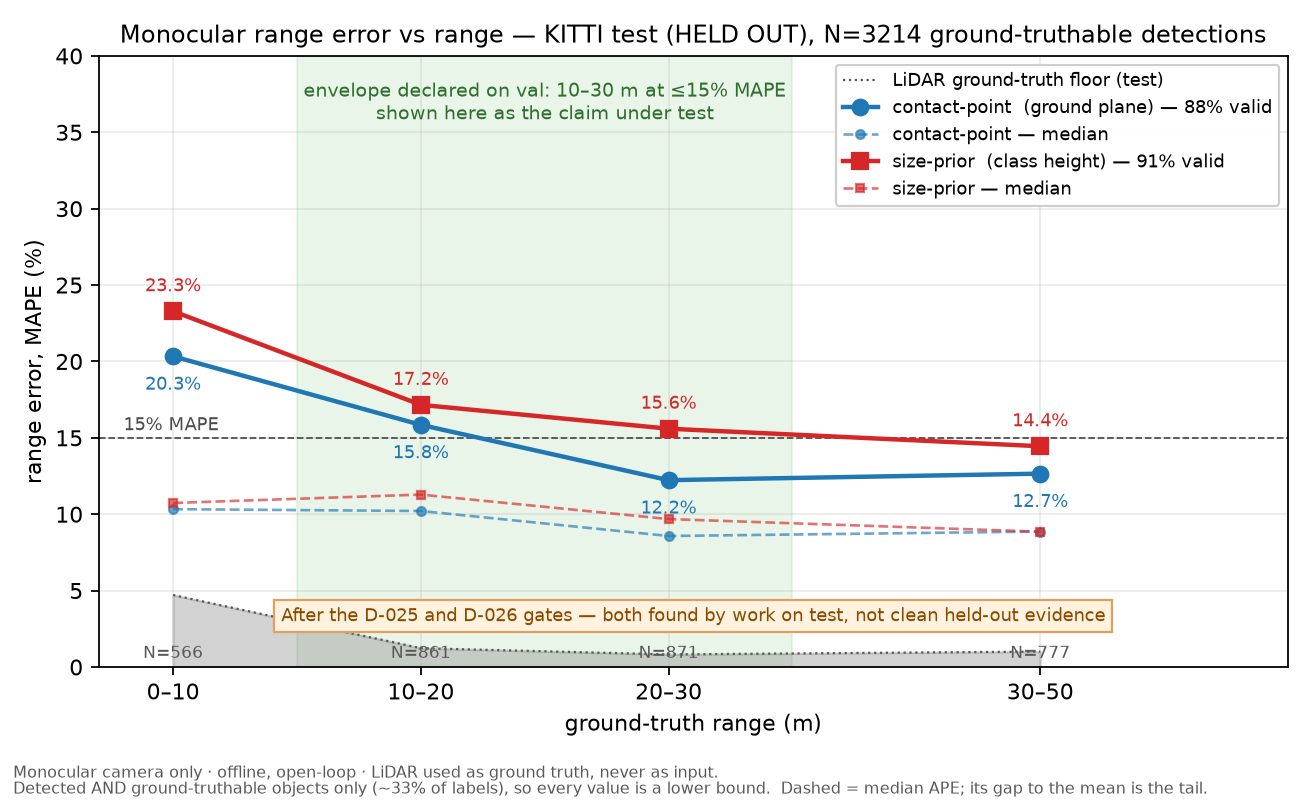
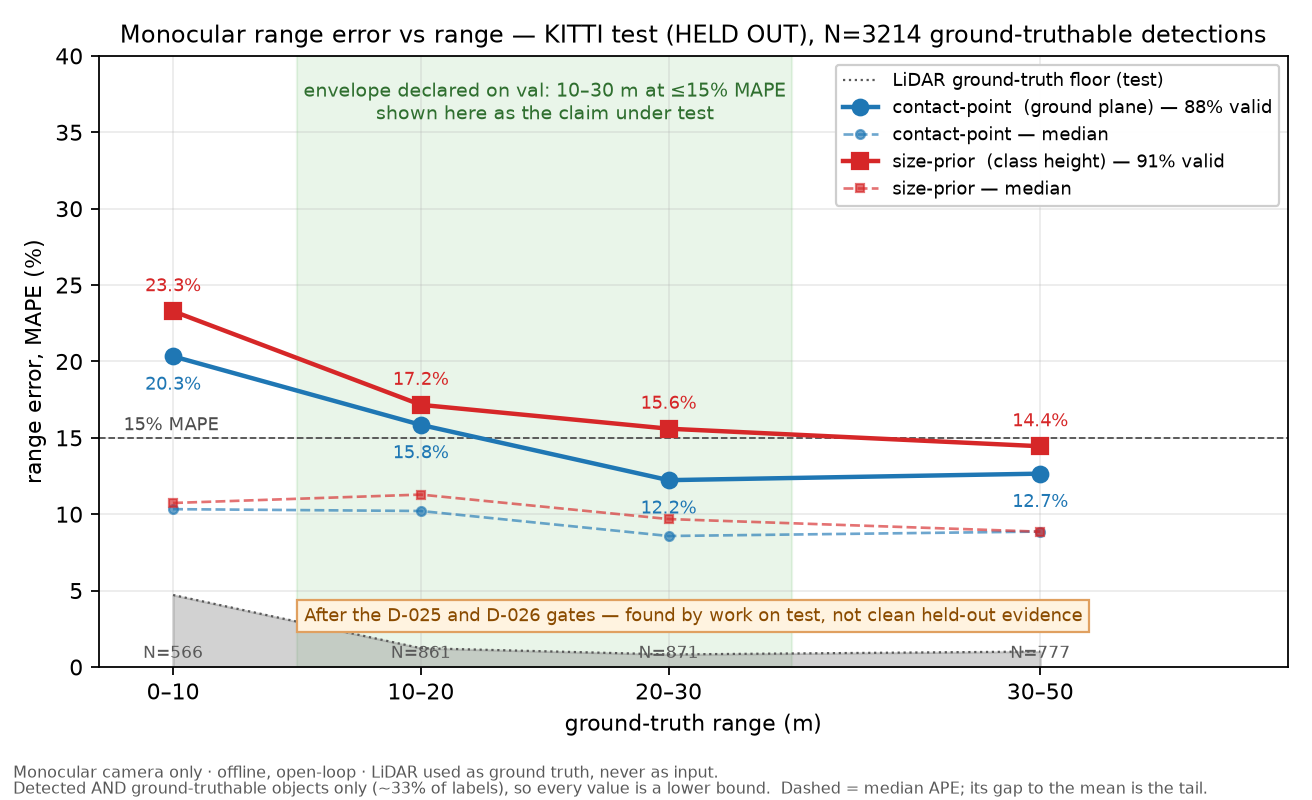
make every documented command executable, and re-run the stages range feeds
End-to-end audit of the whole system rather than the docs describing it. Two
classes of problem, both real.

1. THE CHARTER'S COMMAND TABLE DID NOT RUN. Three of sixteen commands used
flags that do not exist: `eval_fcw.py --ttc-threshold`, `eval_range.py --bins`,
and `run_bench.py --iters/--report` -- the last two documented against scripts
I wrote myself. Nothing caught it because documentation is not executed.

tests/test_documented_commands.py now executes it: the command block is parsed
out of CLAUDE.md and each invocation checked against that script's argparse, so
a renamed flag fails the suite instead of wasting the next reader's afternoon.
The commands are corrected, and plot_range_curve.py and claim_check.py -- which
existed but were never listed -- are added.

Writing that test found a fourth failure that was the test's own: a greedy
[^\n]* ate the trailing backslash of a shell line-continuation, so the second
line's flags were dropped and render_frame.py was reported broken when it was
fine. Continuations are now joined before matching.

2. A CONFIG CHANGE HAD SILENTLY INVALIDATED A DOWNSTREAM ROW. D-025 and D-026
changed range validity, and closing speed is -D_est/TTC. Re-ran every stage
that consumes range:

  - TTC unchanged (MAE 0.41 s, median +0.01 s) -- it never touches range;
  - FCW unchanged (2 events, 13->3 onsets, 12->2 false alarms, FP/h 264->44);
  - closing speed MOVED: rel MAE 28/32/51/78% -> 30/32/50/66%. The 30-50 m bin
[…]

Changed region(s): [[0.1875, 0.75, 0.875, 0.8125]]

diff --git a/tests/test_documented_commands.py b/tests/test_documented_commands.py
@@ -1,0 +1,120 @@
+"""Every command in CLAUDE.md must actually run.
+
+The charter's command table is the first thing a reader copies, and it had
+drifted from the code three ways at once: `eval_fcw.py --ttc-threshold`,
+`eval_range.py --bins` and `run_bench.py --iters/--report` were all documented
+and none existed. Two of those flags had never been implemented; the third was
+removed. Nothing caught it, because documentation is not executed.
+
+These tests execute it. They parse the command block out of CLAUDE.md and check
+each invocation against the script's own argparse, so a flag that is renamed or
+dropped fails the suite instead of wasting the next reader's afternoon.
+
+Deliberately static: the commands are checked for *validity*, not run. Running
+them needs the KITTI data and minutes of GPU time, and a test suite that cannot
+pass on a clean checkout is a test suite people learn to skip.
+"""
+
+from __future__ import annotations
+
+import ast
+import re
+import shlex
+from pathlib import Path
+
+import pytest
+
+REPO = Path(__file__).resolve().parents[1]
+CLAUDE_MD = REPO / "CLAUDE.md"
+
+# `python path/to/script.py --flags...`
+COMMAND = re.compile(r"^python\s+((?:tools|eval|app|bench)/[a-z_0-9]+\.py)([^\n]*)", re.M)
+
+
+def documented_commands() -> list[tuple[str, str]]:
+    """(script path, argument string) for every python command in CLAUDE.md.
+
+    Shell line-continuations are joined BEFORE matching. Doing it after does not
+    work: a greedy `[^\n]*` eats the trailing backslash, so the continuation
+    never joins and the second line's flags are silently dropped -- which made
+    this very test report a false failure on `render_frame.py`, whose flags were
+    fine, while the real drift was elsewhere.
+    """
+    text = CLAUDE_MD.read_text().replace("\\\n", " ")
+    out = []
+    for m in COMMAND.finditer(text):
+        args = m.group(2).split("#")[0]  # strip trailing comment
+        out.append((m.group(1), args.strip()))
+    return out
+
+
+def declared_flags(script: Path) -> set[str]:
+    """Every option string the script's argparse accepts.
+
+    Read from the source rather than by importing: these modules execute heavy
+    imports (torch, ultralytics) at module scope, and a lint test should not
+    need a GPU stack.
+    """
+    tree = ast.parse(script.read_text())
+    flags: set[str] = {"-h", "--help"}
+    for node in ast.walk(tree):
+        if not isinstance(node, ast.Call):
+            continue
+        func = node.func
+        if not (isinstance(func, ast.Attribute) and func.attr == "add_argument"):
+            continue
+        for arg in node.args:
+            if isinstance(arg, ast.Constant) and str(arg.value).startswith("-"):
+                flags.add(arg.value)
+        # argparse also accepts dest= for positionals; store= keywords are not flags
+        for kw in node.keywords:
+            if kw.arg == "dest" and isinstance(kw.value, ast.Constant):
+                flags.add("--" + str(kw.value.value).replace("_", "-"))
+    return flags
+
+
+def test_claude_md_lists_some_commands():
+    """Guard the parser itself: a regex that matches nothing would pass silently."""
+    cmds = documented_commands()
+    assert len(cmds) >= 10, f"only found {len(cmds)} commands -- has the format changed?"
+
+
+@pytest.mark.parametrize("script,args", documented_commands(), ids=lambda v: str(v)[:40])
+def test_documented_command_script_exists(script, args):
+    assert (REPO / script).is_file(), f"CLAUDE.md documents {script}, which does not exist"
+
+
+@pytest.mark.parametrize("script,args", documented_commands(), ids=lambda v: str(v)[:40])
+def test_documented_command_flags_exist(script, args):
+    """Every --flag in a documented command must be declared by that script."""
+    path = REPO / script
+    if not path.is_file():
+        pytest.skip("covered by test_documented_command_script_exists")
+    declared = declared_flags(path)
+    used = [tok for tok in shlex.split(args) if tok.startswith("--")]
+    # `--flag=value` spellings
+    used = [tok.split("=", 1)[0] for tok in used]
+    unknown = sorted(set(used) - declared)
+    assert not unknown, (
+        f"CLAUDE.md runs `{script} {args}` but {script} does not accept {unknown}. "
+        f"It accepts: {sorted(declared)}"
+    )
+
+
+@pytest.mark.parametrize("negative_flag", ["--ttc-threshold", "--iters", "--report", "--bins"])
+def test_the_flags_that_had_drifted_stay_gone_or_get_implemented(negative_flag):
+    """The three drifted commands, pinned as a regression.
+
+    Each of these was documented in CLAUDE.md against a script that never
+    accepted it. The fix was to correct the documentation, so the invariant is
+    simply that no documented command uses a flag its script lacks -- already
+    enforced above. This test states the specific history so a future edit that
+    reintroduces one of these spellings has to do it deliberately.
+    """
+    for script, args in documented_commands():
+        if negative_flag in args:
+            declared = declared_flags(REPO / script)
+            assert negative_flag in declared, (
+                f"`{negative_flag}` is back in a CLAUDE.md command for {script} "
+                f"but {script} still does not implement it"
+            )

diff --git a/tools/plot_range_curve.py b/tools/plot_range_curve.py
@@ -120,6 +120,15 @@ def main() -> int:
         ap.error("--artifact requires --stamp naming what that artefact is")
 
     src = args.artifact or REPO / "artifacts" / f"range_eval_{args.split}.npz"
+    if not Path(src).is_file():
+        # `artifacts/` is intentionally untracked, so on a fresh clone this is
+        # the first thing a reader hits. Say what to run, the way
+        # RawDrive.open names the fetch command, rather than dumping a
+        # FileNotFoundError from inside numpy.
+        raise SystemExit(
+            f"no evaluation artefact at {src}\n"
+            f"generate it with:  python eval/eval_range.py --split {args.split}"
+        )
     d = np.load(src, allow_pickle=True)
     truth = d["gt_range"]
     centres = [(lo + hi) / 2 for lo, hi in BINS]

diff --git a/CLAUDE.md b/CLAUDE.md
@@ -114,7 +114,7 @@ While the override stands, `/quiz` is **load-bearing rather than optional**, and
 | Far-range error cause | **road non-flatness** — road 10 cm below the assumed plane by 50 m; explains most of the bias beyond 20 m ([D-020](docs/decisions.md)) |
 | Near-field error cause | **LARGELY IDENTIFIED: the image edge** ([D-026](docs/decisions.md)). Below **D_min = f·h/(H_img−cy) = 5.91 m** the contact point projects below the frame; estimates saturate at 6.03 m (val) / 6.02 m (test) against a 5.91 m prediction, **100% over-estimates**. Both estimators fail there. A **+0.60 m residual at 5.91–13 m remains open** |
 | Near-field after the D-026 gate | 0–10 m MAPE **21.0 → 12.4% (val)**, 22.5 → 20.3% (test). Coverage cost: contact-point validity in that bin falls to **68% / 52%** |
-| Closing-speed error vs GT (val, no deadband) | rel MAE **28 / 32 / 51 / 78 %** by bin 0–10…30–50 m — inherits range error ([D-022](docs/decisions.md)) |
+| Closing-speed error vs GT (val, no deadband, post-D-025/026) | rel MAE **30 / 32 / 50 / 66 %** by bin 0–10…30–50 m — inherits range error, so the gates moved it ([D-022](docs/decisions.md), Row 5.5) |
 | **TTC error where it matters (GT TTC < 3 s)** | MAE **0.41 s**, median **+0.01 s** (unbiased), rel 30%, p90 1.02 s — common subset N=1930 |
 | Phantom closing (relatively stationary) | **54.3%** no deadband · 11.9% fixed@0.05 · 2.6% sigma@2.0 — synthetic model predicted 54.2 / 10.2 |
 | Imminent threats silenced (GT TTC < 3 s) | none 1.2% · fixed 1.6% · **sigma 10.2%** — deadband operating point deferred to Phase 7 |
@@ -149,21 +149,29 @@ python tools/render_frame.py --drive 2011_09_26_drive_0013 --frame 20 \
 python eval/eval_detection.py --split val                      # AP, recall-vs-range, latency
 python eval/eval_box_quality.py --split val                   # detector box vs label box, per object
 python eval/eval_road_profile.py --split val                  # real road vs the assumed flat plane
-python eval/eval_range.py    --split val --bins 10,20,30,50   # → error-vs-range curve
+python eval/eval_range.py    --split val                       # → error-vs-range curve (bins are fixed)
 python eval/eval_tracking.py --split val                       # iou vs sort vs sort_det
 python eval/eval_ttc.py      --split val                      # TTC, closing speed, phantom rate
-python eval/eval_fcw.py      --split val --ttc-threshold 2.0  # TPR + FP/hour
+python eval/eval_fcw.py      --split val                       # sweeps TTC thresholds; TPR + FP/hour
 python eval/eval_lane.py --render 8                          # lanes on KITTI road um_lane + failure set
 
 # ── Benchmark (latency; writes a fully-contextualized row)
-python bench/run_bench.py --warmup 50 --iters 500 --report p50,p95,p99
+python bench/run_bench.py --split val --warmup 30              # every stage, p50/p95/p99 vs budget
+python bench/run_bench.py --drive 2011_09_26_drive_0059 --frames 300   # one drive, quicker
 
 # ── Replay / visualize (Phase 8 — the demo, not the evidence)
 python app/replay.py --drive 2011_09_26_drive_0059 --frames 0 200 --lanes --out artifacts/replay.mp4
 python app/replay.py --drive 2011_09_26_drive_0059 --still 96 --lanes --out docs/figures/hud_still.jpg
 
+# ── Writeup artifacts (Phase 9)
+python tools/plot_range_curve.py --split val                   # regenerate the headline figure
+python tools/claim_check.py                                    # audit claims.md; --pin fills hashes
+
 # ── Tests & lint
 python -m pytest tests/ && ruff check . && black --check .
+
+# NOTE: tests/test_documented_commands.py executes this table against each
+# script's argparse. If you change a flag, this file fails until it agrees.
 ```
 
 ## Milestones
@@ -197,7 +205,7 @@ Ordering is deliberate: **the ruler is built first, the dashboard last.**
 - **What Phase 7 does show:** persistence is the strongest lever (3/3 cuts onsets 13→3, false alarms 12→2, for 0.2 s latency); **half of all false alarms are ghost tracks** with no annotated object; the Phase 5 `sigma` deadband can suppress the threat itself (0 of 2 caught).
 - **Lanes ([D-023](docs/decisions.md)).** KITTI raw has no lane labels, so scored on the road benchmark's 95 `um_lane` frames; parameters committed before first evaluation (`27904fe`). Detection 97.9 %; offset MAE **0.18 m** excluding 2 lane-straddling frames (0.26 m with them); width bias +0.17 m, predicted beforehand from marking-centre vs lane-edge convention. Fixed nominal camera costs a distance-growing lateral bias (+0.08 → +0.26 m).
 - **Two ~4 m lane errors were lane-identity disagreements**: the car straddled the line, the solver found the line being crossed and warned correctly. **Departure warning: 3/5 body-over-line frames (CI 23–88 %), 2.4 % false warnings**; 8 of 13 rule frames graze the threshold by < 9 cm, so a per-frame hit rate there is a coin flip.
-- **TTC is the trustworthy output ([D-022](docs/decisions.md)).** Filter over `u = 1/h` (proportional to range, so exact under constant velocity). `TTC = −u/u̇` is calibration- and prior-free. On val at GT TTC < 3 s: **MAE 0.41 s, median +0.01 s** — unbiased, because the −4.5% box bias cancels in the ratio. Closing speed inherits range error (rel MAE 28 → 78 % by range).
+- **TTC is the trustworthy output ([D-022](docs/decisions.md)).** Filter over `u = 1/h` (proportional to range, so exact under constant velocity). `TTC = −u/u̇` is calibration- and prior-free. On val at GT TTC < 3 s: **MAE 0.41 s, median +0.01 s** — unbiased, because the −4.5% box bias cancels in the ratio. Closing speed inherits range error (rel MAE 30 → 66 % by range) and **moved when the range gates changed** — the coupled-stages rule, concretely (Row 5.5).
 - **Deadband is a gate, not a smoother.** Without one **54.3 %** of stationary objects fake closing. It never changes a TTC value — only whether one is emitted. sigma@2.0's better headline error was selection: it goes silent on **10.2 %** of imminent threats (GT TTC median 2.15 s). Fixed and sigma are equivalent at matched phantom rates. **Operating point deferred to Phase 7.**
 - **Tracking (Phase 4).** `sort_det` shipped: MOTA 0.284 / IDF1 0.522 / 358 ID switches; association −29 % ID switches, output smoothing discarded ([D-021](docs/decisions.md)).
 - **Phase 3 on val, post-D-025 (N=6122).** Contact-point **21.0 / 10.1 / 10.7 / 11.8 %**; size-prior **29.5 / 14.9 / 11.0 / 15.3 %**. The val 30–50 m figure was **18.7% before the gate** — the same pole had been inflating val all along, unnoticed because it never grew large enough to look wrong.

diff --git a/docs/benchmarks.md b/docs/benchmarks.md
@@ -799,16 +799,32 @@ phantom rate. That trade is not made here; Phase 7 makes it against FP/hour.
 `closing speed = −D_est/TTC`, so every Phase 3 range error propagates in.
 No deadband, frames where GT and estimate both say closing:
 
-| bin (m) | N | median error | MAE | rel MAE |
-|---|---|---|---|---|
-| 0–10 | 661 | −0.74 m/s | 1.88 m/s | 28% |
-| 10–20 | 1132 | −0.34 m/s | 2.35 m/s | 32% |
-| 20–30 | 680 | +0.94 m/s | 4.04 m/s | 51% |
-| 30–50 | 621 | +1.38 m/s | 6.72 m/s | 78% |
+> **Re-measured 2026-09-19 after D-025 and D-026.** Closing speed consumes
+> `D_est`, so the two range gates propagate into it — the only Phase 5/7 figure
+> that moved. TTC did not (it never touches range), and the Phase 7 rows are
+> unchanged. Both versions are kept: the original is what Phases 5–8 reasoned on.
 
-**Closing speed is roughly 2.5× worse than TTC in relative terms beyond 20 m**,
-because TTC is calibration-free and closing speed is not. For a warning system
-this favours deciding on TTC and reporting closing speed as context.
+| bin (m) | N | median error | MAE | rel MAE | **rel MAE (post-gates)** |
+|---|---|---|---|---|---|
+| 0–10 | 661 → 508 | −0.74 → −0.80 m/s | 1.88 → 1.94 m/s | 28% | **30%** |
+| 10–20 | 1132 | −0.34 m/s | 2.35 m/s | 32% | **32%** |
+| 20–30 | 680 → 677 | +0.94 → +0.96 m/s | 4.04 → 3.90 m/s | 51% | **50%** |
+| 30–50 | 621 → 574 | +1.38 → +1.51 m/s | 6.72 → 5.55 m/s | 78% | **66%** |
+
+The 30–50 m bin improves 12 points, tracking D-025's repair of far-range range
+error (18.7 → 11.8% MAPE) exactly as a derived quantity should. The near bin
+worsens slightly because D-026 removes the *saturated* short estimates, which
+were biased toward reporting objects as further away and therefore closing more
+slowly — removing them uncovers error rather than adding it.
+
+**Closing speed remains roughly 2× worse than TTC in relative terms beyond
+20 m**, because TTC is calibration-free and closing speed is not. For a warning
+system this favours deciding on TTC and reporting closing speed as context.
+
+**This row is the concrete case for the charter's "stages are coupled" rule:** a
+validity gate in the range estimator, changed for reasons that had nothing to do
+with velocity, moved a Phase 5 number by 12 points. Every re-run after a
+geometry change has to include the stages downstream of it.
 
 ---
 
